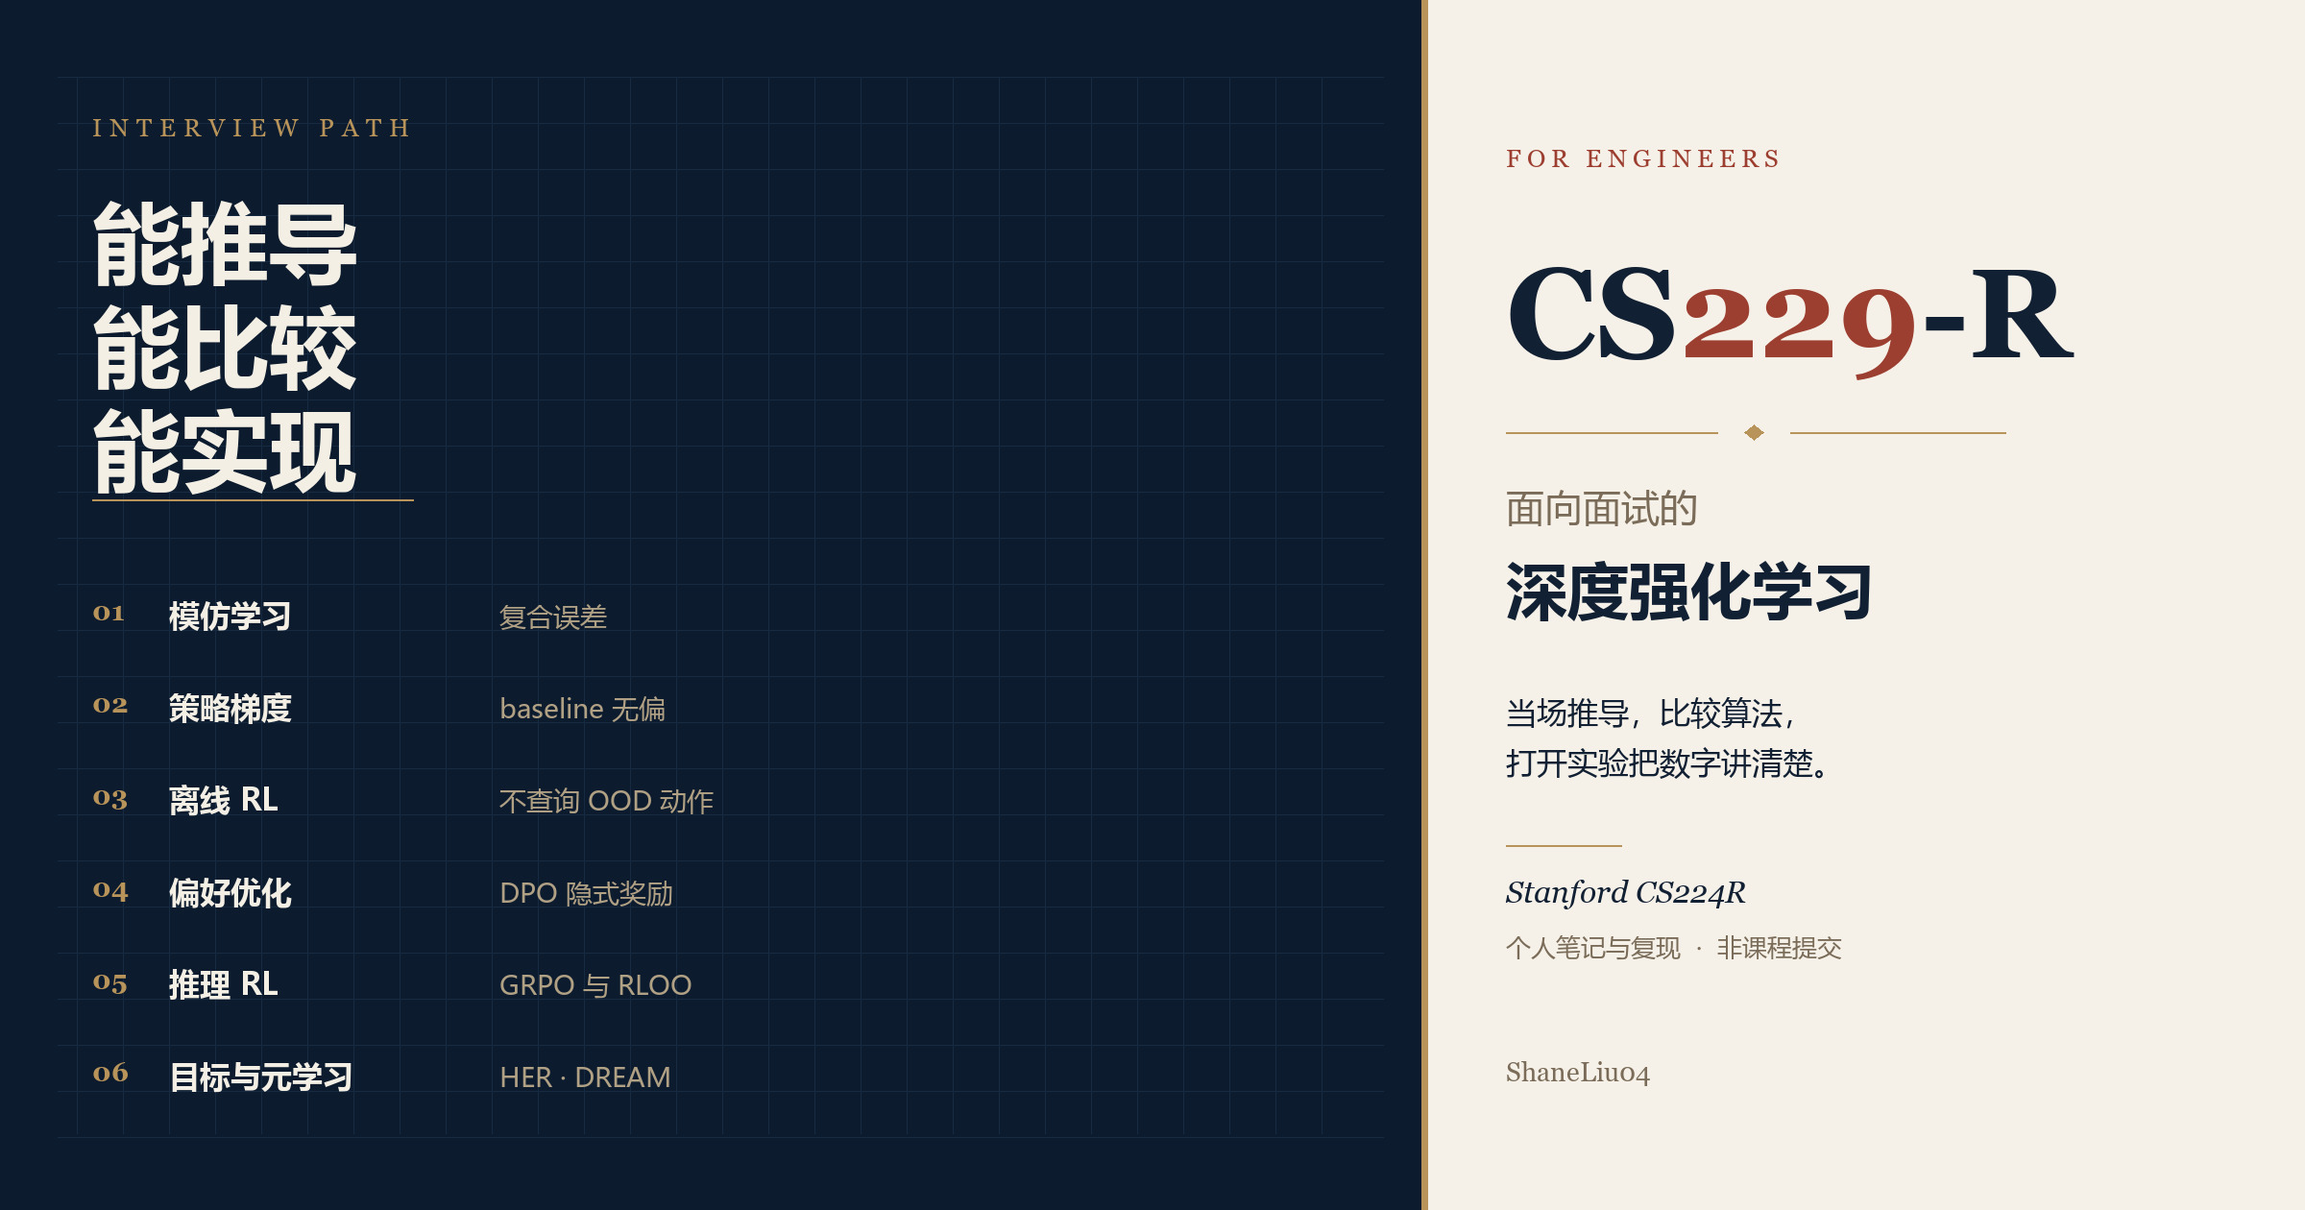
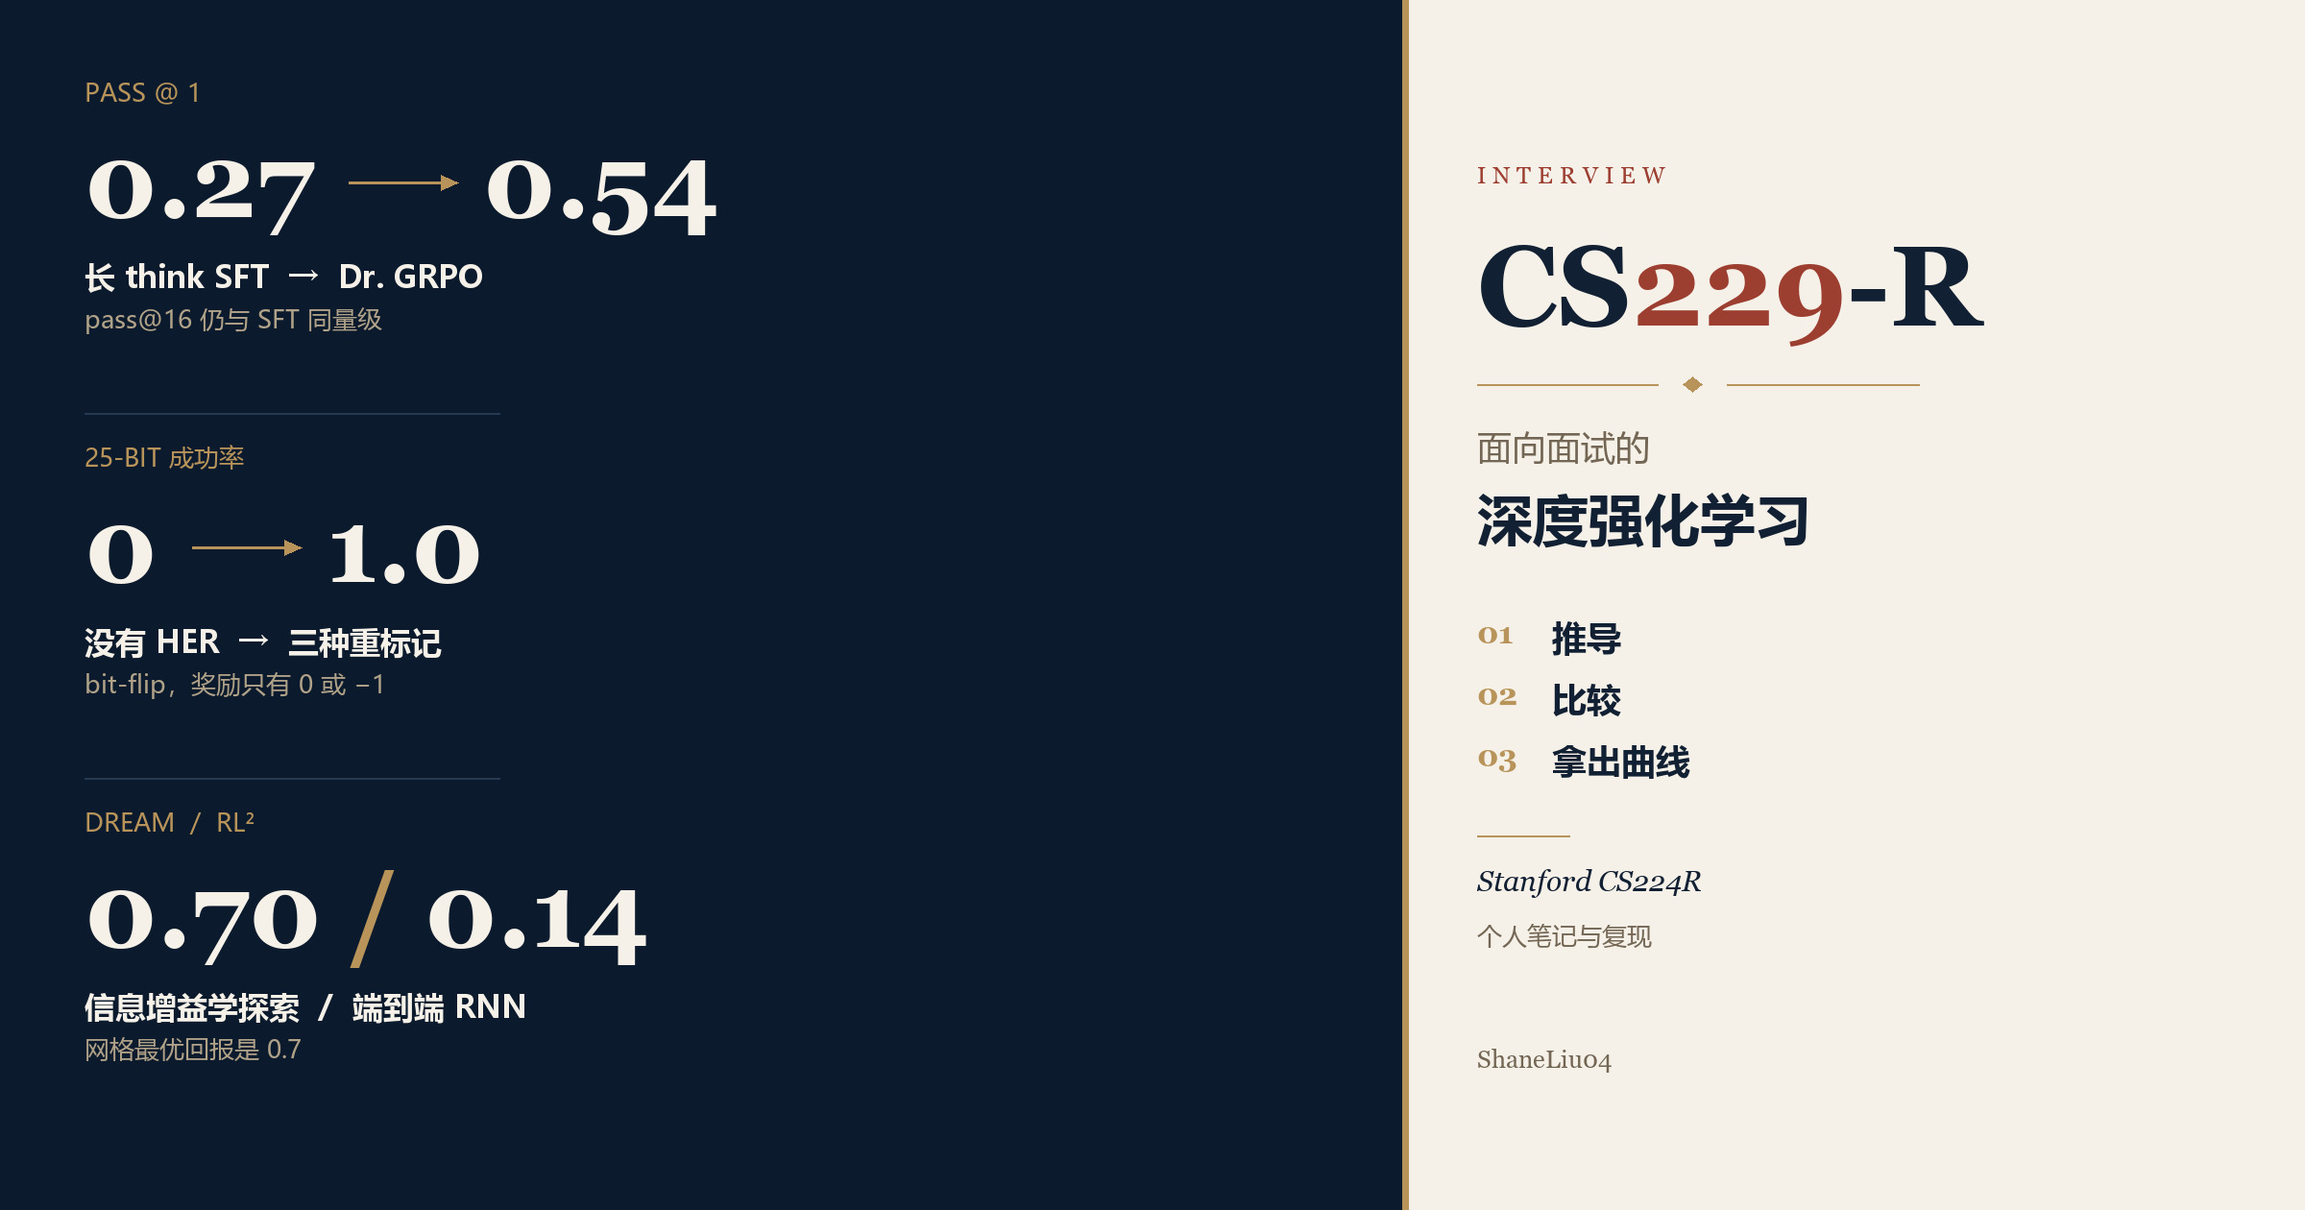
Lead the README and cover with the three results an interview can defend.

diff --git a/README.md b/README.md
@@ -2,124 +2,76 @@
 
 ![面向面试的深度强化学习](assets/cs229r-cover.png)
 
-面向面试的深度强化学习。材料来自 Stanford CS224R（Chelsea Finn，Spring 2026 / 2025 / 2023），
-整理成可以当场推导、比较算法、并打开实验把数字讲清楚的个人仓库。
+面向面试的深度强化学习。笔记、公式和多种子实验只为一件事服务：当场推导，比较算法，把曲线上的数字讲清楚。
 
-作者 [ShaneLiu04](https://github.com/ShaneLiu04)。与 Stanford University 及 CS224R 课程团队无隶属关系。
-官方材料版权归原作者。正在修读该课的同学请遵守 honor code，不要把 `solutions/` 当作作业提交。
+材料来自 Stanford CS224R（Chelsea Finn，2026 / 2025 / 2023）。作者 [ShaneLiu04](https://github.com/ShaneLiu04)。与 Stanford 及课程团队无隶属关系。`solutions/` 是个人复现，正在修读该课的同学不要把它当作作业提交。
 
-## 今晚怎么用
+## 三张图
 
-| 你有多少时间 | 做什么 | 打开 |
-| --- | --- | --- |
-| 90 分钟 | 只准备两个故事，默写对应公式 | 算法岗：[故事 4 和 5](interview/PORTFOLIO.md)；系统岗：[故事 1 和 2](interview/PORTFOLIO.md)。公式卡：[FORMULAS](interview/FORMULAS.md) |
-| 一个周末 | 按下面的地图，每模块讲透一题 | 笔记里的「一页速览卡」和「面试追问链」 |
-| 对方要看证据 | 打开曲线和多种子表 | 下表的作业 README |
+留出集 500 题，每题 16 条。长 think SFT 的 pass@1 是 0.272，pass@16 是 0.662。长程 RL 把 pass@1 抬到 0.52–0.54，pass@16 停在 0.64–0.71。面试里把这件事讲成分布变尖：小 k 上升，大 k 没有拉开。
+
+![留出集 pass@k](solutions/spring2026/default-project/artifacts/extension/figures/ext_fig1_passk_heldout.png)
+
+同一份 Medium 迷宫。IQL（ζ=0.7）在 RND 数据上是 −50.9，在随机数据上是 −90.7。CQL（α=0.1，6 个种子）反过来：随机数据 −34.3±6.1，RND 数据 −67.6。数据没有绝对的好坏，要看算法怎么用它。starter 里的 `--use_rnd` 并不改变数据，采集器写死了最短路贪心。
+
+![CQL 的两种数据](solutions/spring2025/homework3-offline-rl/artifacts/figures/hw3_fig8_cql_data_source.png)
+
+bit-flip 的奖励只有 0 和 −1。无 hindsight 时 25-bit 成功率是 0。final、future、random 三种重标记都到 1.0。
+
+![HER，25-bit](solutions/spring2025/homework4-goal-meta-rl/artifacts/figures/hw4_fig1_bitflip_success.png)
+
+网格上走路是 0.1，读地图再坐公交是 0.7。DREAM 0.696±0.007，RL² 0.143±0.073。把每步探索代价设为 0，回报仍是 0.70，探索长度顶到回合上限。
+
+## 开口的一句
+
+往下的推导在笔记，90 秒的讲法在 [作品集](interview/PORTFOLIO.md)，可手推的步骤在 [公式卡](interview/FORMULAS.md)。
+
+| 模块 | 开口 | 笔记 | 证据 |
+| --- | --- | --- | --- |
+| 模仿 | MSE 在多峰动作上取条件均值，落到数据没有的动作上。测试时状态偏离训练集，误差随步数复合。 | [L2](notes/lecture-02-imitation-learning.md) | [HW1](solutions/spring2026/homework1-imitation/README.md) |
+| 策略梯度 | `t` 之前的奖励与 `a_t` 独立，那一项的梯度期望是 0。只依赖状态的 baseline 同样无偏。 | [L3](notes/lecture-03-policy-gradients.md) | [公式卡](interview/FORMULAS.md) |
+| GAE | `λ=0` 是一步 TD，`λ=1` 回到 reward-to-go。中间换的是偏差和方差。 | [L4](notes/lecture-04-actor-critic.md) | [HW2](solutions/spring2026/homework2-online-rl/README.md) |
+| PPO / SAC | clip 限制的是 `π_new/π_old`。两个 Q 取 min 是往下偏，用来压过估计。 | [L5](notes/lecture-05-off-policy-actor-critic.md) | [HW2](solutions/spring2026/homework2-online-rl/README.md) |
+| Q-learning | `max` 作用在带噪声的估计上，`E[max Q̂] ≥ max E[Q̂]`。 | [L6](notes/lecture-06-q-learning.md) | [HW2](solutions/spring2026/homework2-online-rl/README.md) |
+| 离线 | IQL 用 `V(s')`，不在下一状态采样动作。同一份 RND 数据对 IQL 更好，对强 CQL 更差。 | [L7](notes/lecture-07-offline-rl.md) | [2026](solutions/spring2026/homework3-offline-rl/README.md)、[2025](solutions/spring2025/homework3-offline-rl/README.md) |
+| 偏好 | KL 约束下的最优奖励是 `β log(π/π_ref)`。配分函数在两条回答相减时消掉，所以损失可以直接写在策略上。`β=0.1` 且策略等于参考策略时，IPO 损失是 25。 | [L9](notes/lecture-09-rlhf-preference-optimization.md) | [Countdown](solutions/spring2026/default-project/README.md) |
+| 推理 RL | RLOO 不除组内标准差，GRPO 除。低方差的题（几乎全对或全错）会被放大。损失再按长度平均，长的错误回答每个 token 分到的梯度更小。 | [L10](notes/lecture-10-rl-llm-reasoning.md) | [Q13](interview/QUESTION-BANK.md) |
+| HER | 把目标换成后来实际到达的状态。确定性环境里转移不变。随机环境里，到达这个状态的转移是在原目标下发生的。 | [L12](notes/lecture-12-multi-task-goal-conditioned-rl.md) | [HW4](solutions/spring2025/homework4-goal-meta-rl/README.md) |
+| 元学习 | DREAM 用信息增益减去每步代价来学探索。RL² 把探索和执行放进同一个 RNN，信用分配要穿过整段历史。 | [L13](notes/lecture-13-meta-rl.md) | [HW4](solutions/spring2025/homework4-goal-meta-rl/README.md) |
+| 系统 | 0.5B、AdamW、bf16：权重 1 GB，fp32 主权重 2 GB，两个矩 4 GB，梯度 1 GB，共 8 GB。训练进程留下的约 89 GB 是缓存，不是 KV。vLLM 按整卡容量申请，同卡起不来。 | [工程手册](interview/ENGINEERING.md) | [故事 2](interview/PORTFOLIO.md) |
+
+2026 版没有 exploration。 [L14](notes/lecture-14-exploration.md) 按 2025 版补了 RND、ICM 和计数，对应上面的探索数据实验。一句话答案的全表在 [课程问答](interview/COURSE-QA.md)，每节末尾的错答在 [题库](interview/QUESTION-BANK.md)。
+
+## 怎么准备
+
+90 分钟只准备两个故事，再默写对应公式。算法岗用 [故事 4 和 5](interview/PORTFOLIO.md)（采集器是 oracle，以及 IQL 和 CQL 要的数据相反）。系统岗用 [故事 1 和 2](interview/PORTFOLIO.md)（停止符的两种 BPE，以及同卡 vLLM 起不来）。
+
+一个周末按上表从上到下，每行先讲开口的那句，再打开笔记里的追问链。对方要看原始数字时，进 `solutions/` 里该作业的 README，曲线由 CSV 和 JSONL 生成。
 
 全部测试：`./scripts/run-all-tests.ps1`。
 
-四层深度，不要在一层里找全部内容：
+## 材料放在哪
 
-| 层 | 回答什么 | 位置 |
-| --- | --- | --- |
-| 入口 | 今晚讲哪两题 | 本页 |
-| 面试稿 | 90 秒故事、可手推公式、常见错答 | [`interview/`](interview/README.md) |
-| 推导 | 一讲的定义、证明、反例 | [`notes/`](notes/README.md) |
-| 证据 | 多种子曲线和报告 | [`solutions/`](solutions/README.md) |
-
-## 面试地图
-
-每一行是一道必须能讲完的题。一句话答案在 [课程问答索引](interview/COURSE-QA.md)，实验在作品集。
-
-| 模块 | 讲完这一题 | 笔记 | 证据 |
-| --- | --- | --- | --- |
-| 模仿学习 | BC 的复合误差从哪来，多峰动作为什么不能用 MSE | [L2](notes/lecture-02-imitation-learning.md) | [HW1](solutions/spring2026/homework1-imitation/README.md) |
-| 策略梯度 | baseline 为什么无偏，过去的奖励为什么能丢掉 | [L3](notes/lecture-03-policy-gradients.md) | [公式卡](interview/FORMULAS.md) |
-| Actor-Critic | GAE 的 `λ` 在偏差和方差之间换什么 | [L4](notes/lecture-04-actor-critic.md) | [HW2](solutions/spring2026/homework2-online-rl/README.md) |
-| PPO / SAC | clip 限制的是哪一个比值；double-Q 为什么取 min | [L5](notes/lecture-05-off-policy-actor-critic.md) | [HW2](solutions/spring2026/homework2-online-rl/README.md) |
-| 值方法 | `max` 为什么造成过估计 | [L6](notes/lecture-06-q-learning.md) | [HW2 Gridworld](solutions/spring2026/homework2-online-rl/README.md) |
-| 离线 RL | IQL 为什么不采样下一个动作；CQL 的 α 在压什么 | [L7](notes/lecture-07-offline-rl.md) | [2026 HW3](solutions/spring2026/homework3-offline-rl/README.md)、[2025 HW3](solutions/spring2025/homework3-offline-rl/README.md) |
-| 偏好优化 | DPO 的隐式奖励怎么从 Bradley-Terry 推出来 | [L9](notes/lecture-09-rlhf-preference-optimization.md) | [Countdown](solutions/spring2026/default-project/README.md) |
-| 推理 RL | RLOO、GRPO、Dr. GRPO 差在归一化的哪一项 | [L10](notes/lecture-10-rl-llm-reasoning.md) | [故事 1](interview/PORTFOLIO.md)、[题库 Q13](interview/QUESTION-BANK.md) |
-| 目标条件 | HER 重标记了什么，什么时候有偏 | [L12](notes/lecture-12-multi-task-goal-conditioned-rl.md) | [2025 HW4](solutions/spring2025/homework4-goal-meta-rl/README.md) |
-| 元学习 | RL² 和 DREAM 把探索放在哪里学 | [L13](notes/lecture-13-meta-rl.md) | [2025 HW4](solutions/spring2025/homework4-goal-meta-rl/README.md) |
-| 系统 | 0.5B 的 8 GB 静态显存怎么乘出来；同卡 vLLM 为什么起不来 | [工程手册](interview/ENGINEERING.md) | [故事 2](interview/PORTFOLIO.md) |
-
-2026 版课程没有 exploration 这一讲。L14 按 2025 版整理，补的是 RND、ICM 和计数。
-[L14](notes/lecture-14-exploration.md) 对应 2025 HW3 的探索数据实验。
-
-## 实验里能讲的数字
-
-数字都由原始 CSV / JSONL 生成。细节、种子数和复现命令在各自的 README。
-
-| 实验 | 可以讲的结果 |
+| 要找什么 | 打开 |
 | --- | --- |
-| [2026 HW1](solutions/spring2026/homework1-imitation/README.md) | BC、flow matching、DAgger，5 个种子，含 Euler 步数和重规划消融 |
-| [2026 HW2](solutions/spring2026/homework2-online-rl/README.md) | PPO 与高 UTD actor-critic 的样本效率，GAE `λ` 消融，Gridworld 上的 reward hacking |
-| [2026 HW3](solutions/spring2026/homework3-offline-rl/README.md) | IQL 在拼接任务上的回报高于数据集最好轨迹 −46；Filtered BC 低于 −46 |
-| [Default Project](solutions/spring2026/default-project/README.md) | 短 SFT 的 pass@1 为 0.188，参考策略处 IPO 损失为 25。长 think SFT 留出 pass@1 为 0.272；长程 RLOO / Dr. GRPO 把它抬到 0.52–0.54，pass@16 仍与 SFT 同量级 |
-| [2025 HW3](solutions/spring2025/homework3-offline-rl/README.md) | starter 的 CQL 采集器是最短路贪心。换成真实探索数据后，IQL 在 RND 数据上更好（−50.9 对 −90.7），CQL 在随机数据上更好（α=0.1 时 −34.3±6.1） |
-| [2025 HW4](solutions/spring2025/homework4-goal-meta-rl/README.md) | 无 HER 时 25-bit 成功率为 0，三种重标记都到 1.0。DREAM 0.696±0.007，RL² 0.143±0.073，最优为 0.7 |
+| 90 秒故事、公式、错答 | [`interview/`](interview/README.md) |
+| 一讲的推导和反例 | [`notes/`](notes/README.md)，从 [L1](notes/lecture-01-intro-mdps.md) 到 [L18](notes/lecture-18-frontiers.md) |
+| 多种子曲线和两份报告 | [`solutions/`](solutions/README.md) |
+| 官方题面和 starter | [`assignments/`](assignments/spring2026/)，这里不改 starter |
+| 幻灯片 | [2026](slides/spring2026/) 17 讲，[2025](slides/spring2025/) 19 讲，[录像](https://www.youtube.com/playlist?list=PLoROMvodv4rPwxE0ONYRa_itZFdaKCylL)，[2023](slides/spring2023/) |
+| 论文和工具索引 | [`experiments/`](experiments/README.md) |
 
-CQL 的 α 在两种数据上方向相反。这是离线 RL 那一题的图。
-
-![CQL 数据来源](solutions/spring2025/homework3-offline-rl/artifacts/figures/hw3_fig8_cql_data_source.png)
-
-25-bit 上，没有重标记的曲线停在 0。
-
-![HER bit-flip](solutions/spring2025/homework4-goal-meta-rl/artifacts/figures/hw4_fig1_bitflip_success.png)
-
-Countdown 上，短程偏好优化和 RLOO 的差距小于种子之间的差距。
-
-![Countdown pass@k](solutions/spring2026/default-project/artifacts/figures/fig7_passk.png)
-
-## 仓库里各放什么
-
-```text
-interview/          故事、公式卡、错答、课程问答索引
-notes/              18 讲推导，每讲有速览卡和追问链
-solutions/          个人实现、多种子原始指标、图、两份报告
-assignments/        官方题面和 starter，不在这里改
-slides/ materials/  2026、2025、2023 官方幻灯片和课程材料
-experiments/        论文与工具索引
-scripts/            材料检查与 run-all-tests.ps1
-```
-
-官方幻灯片：2026 版 17 讲（[目录](slides/spring2026/)），2025 版 19 讲并有
-[录像](https://www.youtube.com/playlist?list=PLoROMvodv4rPwxE0ONYRa_itZFdaKCylL)，
-2023 版 19 讲。上游 commit 记在 [UPSTREAM.md](UPSTREAM.md)。
-
-作业入口按「题面」和「个人实现」分开：
-
-| 主题 | 官方题面 | 个人实现 |
+| 主题 | 题面 | 实现 |
 | --- | --- | --- |
-| 模仿学习 | [2026 HW1](assignments/spring2026/homework1-imitation/) | [solutions](solutions/spring2026/homework1-imitation/README.md) |
-| 在线 RL | [2026 HW2](assignments/spring2026/homework2-online-rl/) | [solutions](solutions/spring2026/homework2-online-rl/README.md) |
-| 离线 RL | [2026 HW3](assignments/spring2026/homework3-offline-rl/) | [solutions](solutions/spring2026/homework3-offline-rl/README.md) |
-| LLM 后训练 | [Default Project](assignments/spring2026/default-project/) | [solutions](solutions/spring2026/default-project/README.md) |
-| CQL 与探索 | [2025 HW3](assignments/spring2025/) | [solutions](solutions/spring2025/homework3-offline-rl/README.md) |
-| HER 与 meta-RL | [2025 HW4](assignments/spring2025/) | [solutions](solutions/spring2025/homework4-goal-meta-rl/README.md) |
+| 模仿：BC、flow matching、DAgger | [HW1](assignments/spring2026/homework1-imitation/) | [5 个种子](solutions/spring2026/homework1-imitation/README.md) |
+| 在线：PPO、GAE、高 UTD | [HW2](assignments/spring2026/homework2-online-rl/) | [样本效率](solutions/spring2026/homework2-online-rl/README.md) |
+| 离线：AWAC、IQL、拼接 | [HW3](assignments/spring2026/homework3-offline-rl/) | [IQL 高于最好轨迹 −46](solutions/spring2026/homework3-offline-rl/README.md) |
+| 后训练：SFT、IPO、RLOO、GRPO | [Default Project](assignments/spring2026/default-project/) | [扩展评测](solutions/spring2026/default-project/README.md) |
+| CQL 与探索数据 | [2025 HW3](assignments/spring2025/) | [oracle 采集器](solutions/spring2025/homework3-offline-rl/README.md) |
+| HER、RL²、DREAM | [2025 HW4](assignments/spring2025/) | [0 到 1，0.70 对 0.14](solutions/spring2025/homework4-goal-meta-rl/README.md) |
 
-2025 的 HW3、HW4 是补 2026 大纲里没有的 CQL、HER 和 meta-RL。
+2025 的两份作业补的是 2026 大纲里没有的 CQL、HER 和 meta-RL。上游 commit 在 [UPSTREAM.md](UPSTREAM.md)。本地可以直接跑的是 HW1 的 Flappy Bird；其余实验的命令写在对应 README 里。
 
-## 沿课程顺序复习
+## 许可
 
-| 阶段 | 看什么 | 做完能讲什么 |
-| --- | --- | --- |
-| 模仿 | [L1](notes/lecture-01-intro-mdps.md) [L2](notes/lecture-02-imitation-learning.md) | 复合误差、flow matching、DAgger |
-| 在线 | [L3](notes/lecture-03-policy-gradients.md) 到 [L6](notes/lecture-06-q-learning.md) | 策略梯度、GAE、PPO、Double Q |
-| 离线与奖励 | [L7](notes/lecture-07-offline-rl.md) 到 [L9](notes/lecture-09-rlhf-preference-optimization.md) | IQL、CQL、Bradley-Terry、DPO |
-| 推理 | [L10](notes/lecture-10-rl-llm-reasoning.md) | RLOO、pass@k、test-time compute |
-| 模型、目标、元学习 | [L11](notes/lecture-11-model-based-rl.md) 到 [L14](notes/lecture-14-exploration.md) | 短 rollout、HER、RL²、RND |
-| 机器人 | [L15](notes/lecture-15-hierarchical-rl-il.md) 到 [L18](notes/lecture-18-frontiers.md) | 层次、sim-to-real、VLA |
-
-本地能直接跑的是 HW1 的 Flappy Bird。HW2、HW3 和 Default Project 的完整实验在 GPU 上跑，
-命令写在对应的 solution README。官方 starter 保持不动。
-
-## 引用与许可
-
-官方材料的来源和 commit 在 [UPSTREAM.md](UPSTREAM.md)。第三方内容只在 `resources/` 里链接。
-笔记末尾标了所用幻灯片和论文。
-
-原创笔记、面试材料和脚本使用 [MIT License](LICENSE)。官方材料沿用其各自版权。
-本仓库用于个人学习和求职准备。
+官方材料的版权归原作者，来源记在 [UPSTREAM.md](UPSTREAM.md)。第三方内容只在 [`resources/`](resources/official.md) 里链接。笔记、面试材料和脚本使用 [MIT License](LICENSE)。
